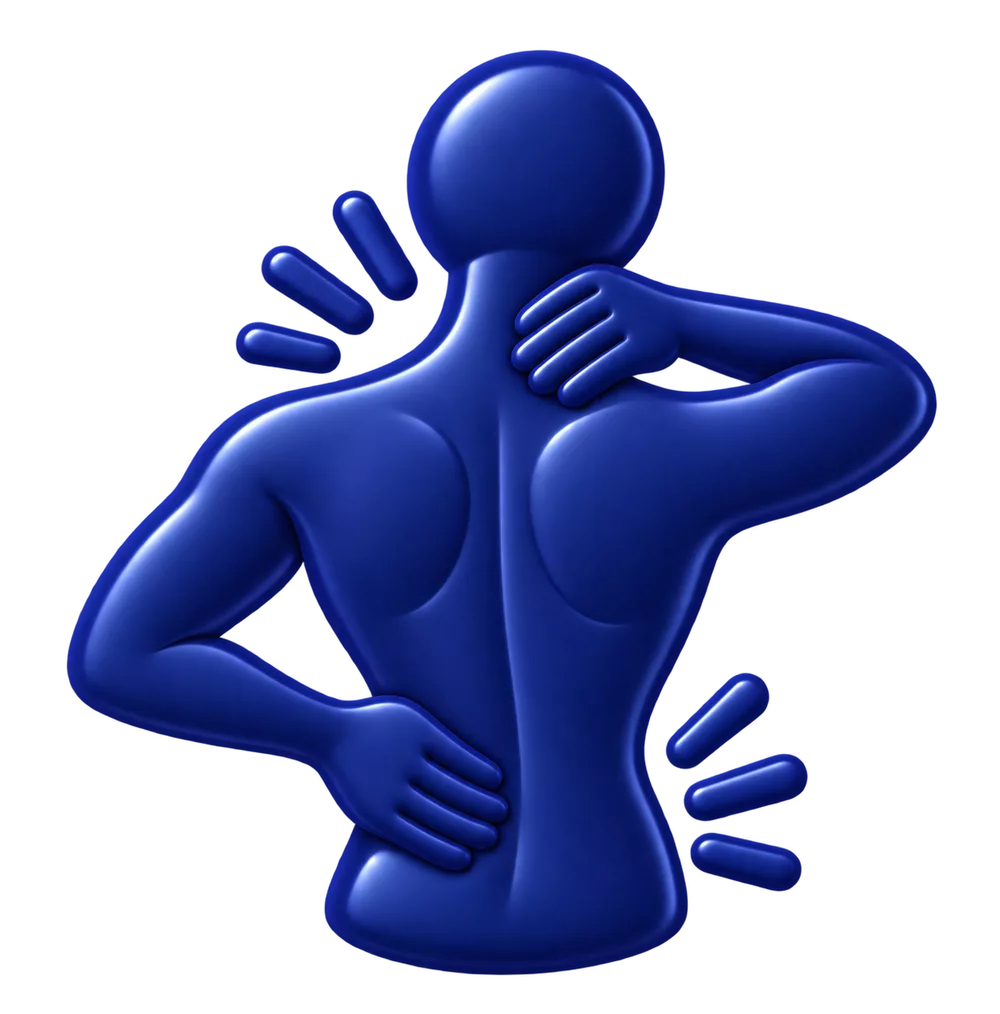
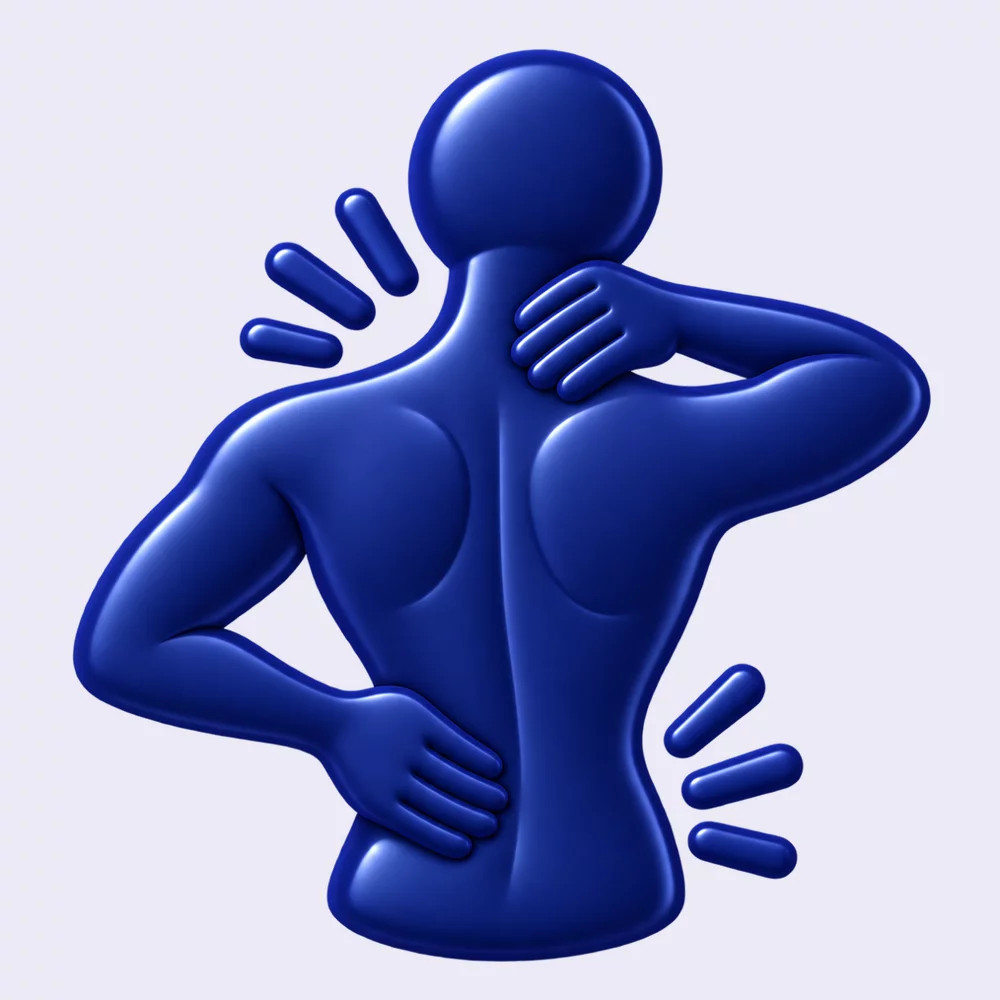
RollPro: ikone kartic brez prosojnosti (na barvi podlage) - ikona Prilagodite sebi se v brskalniku ni izrisala

diff --git a/wp-content/themes/noriks/template_parts/product-bottom/why-rollpro.php b/wp-content/themes/noriks/template_parts/product-bottom/why-rollpro.php
@@ -18,7 +18,7 @@ if ( ! defined( 'ABSPATH' ) ) { exit; }
 ?>
 <div class="wsrollpro">
 <section class="wsrollpro__s wsrollpro__s--bg"><div class="wsrollpro__v"><div class="wsrollpro__kicker wsrollpro__c">Inovativna tehnologija</div><h2 class="wsrollpro__h2 wsrollpro__c">Duboka masaža – <em>kod kuće</em></h2><p class="wsrollpro__p wsrollpro__c">NORIKS RollPro spaja rotirajuće valjke i pulsirajući pokret u jednom uređaju. Pet brzina, dvije ručke i postolje za korištenje bez ruku.</p><div class="wsrollpro__grid wsrollpro__g3"><div class="wsrollpro__k"><div class="wsrollpro__km"><img src="<?php echo esc_url( get_template_directory_uri() . '/img/rollpro/noriks-rollpro-bol.webp' ); ?>" alt="Ublažava bol i napetost" loading="eager" decoding="async"></div><div class="wsrollpro__kt"><strong>Ublažava bol i napetost</strong><p>Riješite se boli i napetosti u mišićima nakon dugog dana za računalom. Valjci se okreću i pulsiraju, pa masaža seže dublje od ručnog valjka.</p></div></div><div class="wsrollpro__k"><div class="wsrollpro__km"><img src="<?php echo esc_url( get_template_directory_uri() . '/img/rollpro/noriks-rollpro-oporavak.webp' ); ?>" alt="Brži oporavak i cirkulacija" loading="eager" decoding="async"></div><div class="wsrollpro__kt"><strong>Brži oporavak i cirkulacija</strong><p>Poboljšava oporavak, ublažava upalu mišića nakon treninga i potiče cirkulaciju krvi te opće zdravlje mišića.</p></div></div><div class="wsrollpro__k"><div class="wsrollpro__km"><img src="<?php echo esc_url( get_template_directory_uri() . '/img/rollpro/noriks-rollpro-opustanje.webp' ); ?>" alt="Opuštanje" loading="eager" decoding="async"></div><div class="wsrollpro__kt"><strong>Opuštanje</strong><p>Uživajte u nježnoj, ali učinkovitoj masaži dok se odmarate – na kauču, na podu ili za stolom.</p></div></div></div><p class="wsrollpro__zak">Masaža kakvu osjetite odmah – bez termina i bez čekanja.</p></div></section>
-<section class="wsrollpro__s"><div class="wsrollpro__v"><div class="wsrollpro__kicker wsrollpro__c">Zašto NORIKS RollPro</div><h2 class="wsrollpro__h2 wsrollpro__c">Napravljen za <em>stvarne rezultate</em></h2><p class="wsrollpro__p wsrollpro__c">Rotirajuća masaža, pulsirajući pokret i više brzina – iskustvo lako prilagodite svom tijelu i potrebama.</p><div class="wsrollpro__vk"><div class="wsrollpro__media wsrollpro__media--vid"><video src="<?php echo esc_url( get_template_directory_uri() . '/img/rollpro/noriks-rollpro-video.mp4' ); ?>" poster="<?php echo esc_url( get_template_directory_uri() . '/img/rollpro/noriks-rollpro-video.jpg' ); ?>" autoplay muted loop playsinline webkit-playsinline preload="metadata"></video></div><div class="wsrollpro__grid wsrollpro__g2"><div class="wsrollpro__k"><div class="wsrollpro__km"><img src="<?php echo esc_url( get_template_directory_uri() . '/img/rollpro/noriks-rollpro-ikona-bol.webp' ); ?>" alt="Ciljano olakšanje" loading="eager" decoding="async"></div><div class="wsrollpro__kt"><strong>Ciljano olakšanje</strong><p>Ublažava upalu mišića i osjećaj napetosti točno tamo gdje treba.</p></div></div><div class="wsrollpro__k"><div class="wsrollpro__km"><img src="<?php echo esc_url( get_template_directory_uri() . '/img/rollpro/noriks-rollpro-ikona-oporavak.webp' ); ?>" alt="Osjetite razliku odmah" loading="eager" decoding="async"></div><div class="wsrollpro__kt"><strong>Osjetite razliku odmah</strong><p>Pojačan protok krvi i opušteno, pokretljivije tijelo već nakon prve masaže.</p></div></div><div class="wsrollpro__k"><div class="wsrollpro__km"><img src="<?php echo esc_url( get_template_directory_uri() . '/img/rollpro/noriks-rollpro-ikona-masaza.webp' ); ?>" alt="Nježan, a učinkovit" loading="eager" decoding="async"></div><div class="wsrollpro__kt"><strong>Nježan, a učinkovit</strong><p>Rotacija i pulsiranje za ugodno i učinkovito iskustvo masaže.</p></div></div><div class="wsrollpro__k"><div class="wsrollpro__km"><img src="<?php echo esc_url( get_template_directory_uri() . '/img/rollpro/noriks-rollpro-ikona-brzina.webp' ); ?>" alt="Prilagodite sebi" loading="eager" decoding="async"></div><div class="wsrollpro__kt"><strong>Prilagodite sebi</strong><p>Više brzina – lako prilagodite masažu svom tijelu i potrebama.</p></div></div></div></div></div></section>
+<section class="wsrollpro__s"><div class="wsrollpro__v"><div class="wsrollpro__kicker wsrollpro__c">Zašto NORIKS RollPro</div><h2 class="wsrollpro__h2 wsrollpro__c">Napravljen za <em>stvarne rezultate</em></h2><p class="wsrollpro__p wsrollpro__c">Rotirajuća masaža, pulsirajući pokret i više brzina – iskustvo lako prilagodite svom tijelu i potrebama.</p><div class="wsrollpro__vk"><div class="wsrollpro__media wsrollpro__media--vid"><video src="<?php echo esc_url( get_template_directory_uri() . '/img/rollpro/noriks-rollpro-video.mp4' ); ?>" poster="<?php echo esc_url( get_template_directory_uri() . '/img/rollpro/noriks-rollpro-video.jpg' ); ?>" autoplay muted loop playsinline webkit-playsinline preload="metadata"></video></div><div class="wsrollpro__grid wsrollpro__g2"><div class="wsrollpro__k"><div class="wsrollpro__km"><img src="<?php echo esc_url( get_template_directory_uri() . '/img/rollpro/noriks-rollpro-ikona-bol.webp' ); ?>" alt="Ciljano olakšanje" loading="eager" decoding="async"></div><div class="wsrollpro__kt"><strong>Ciljano olakšanje</strong><p>Ublažava upalu mišića i osjećaj napetosti točno tamo gdje treba.</p></div></div><div class="wsrollpro__k"><div class="wsrollpro__km"><img src="<?php echo esc_url( get_template_directory_uri() . '/img/rollpro/noriks-rollpro-ikona-oporavak.webp' ); ?>" alt="Osjetite razliku odmah" loading="eager" decoding="async"></div><div class="wsrollpro__kt"><strong>Osjetite razliku odmah</strong><p>Pojačan protok krvi i opušteno, pokretljivije tijelo već nakon prve masaže.</p></div></div><div class="wsrollpro__k"><div class="wsrollpro__km"><img src="<?php echo esc_url( get_template_directory_uri() . '/img/rollpro/noriks-rollpro-ikona-masaza.webp' ); ?>" alt="Nježan, a učinkovit" loading="eager" decoding="async"></div><div class="wsrollpro__kt"><strong>Nježan, a učinkovit</strong><p>Rotacija i pulsiranje za ugodno i učinkovito iskustvo masaže.</p></div></div><div class="wsrollpro__k"><div class="wsrollpro__km"><img src="<?php echo esc_url( get_template_directory_uri() . '/img/rollpro/noriks-rollpro-ikona-podesavanje.webp' ); ?>" alt="Prilagodite sebi" loading="eager" decoding="async"></div><div class="wsrollpro__kt"><strong>Prilagodite sebi</strong><p>Više brzina – lako prilagodite masažu svom tijelu i potrebama.</p></div></div></div></div></div></section>
 <section class="wsrollpro__s wsrollpro__s--bg"><div class="wsrollpro__v wsrollpro__dva wsrollpro__dva--rev"><div class="wsrollpro__media"><img src="<?php echo esc_url( get_template_directory_uri() . '/img/rollpro/noriks-rollpro-stopala.webp' ); ?>" alt="Masaža NORIKS RollPro valjkom na kauču" loading="eager" decoding="async"></div><div><div class="wsrollpro__kicker">Iskrena usporedba</div><h2 class="wsrollpro__h2">Masažni valjak <em>vs masažni pištolj</em></h2><p class="wsrollpro__p">Masažni valjci daju glađe i nježnije iskustvo od mnogih masažnih pištolja, koji često djeluju grubo i agresivno. Veća dodirna površina, manje buke i manje agresivne vibracije.</p><div class="wsrollpro__tw"><table class="wsrollpro__tab"><thead><tr><th><span></span></th><th><span>Masažni valjak</span></th><th><span>Masažni pištolj</span></th></tr></thead><tbody><tr><td>Nježna masaža</td><td class="wsrollpro__da">✓</td><td class="wsrollpro__ne">✕</td></tr><tr><td>Jednostavan za korištenje</td><td class="wsrollpro__da">✓</td><td class="wsrollpro__ne">✕</td></tr><tr><td>Veća dodirna površina</td><td class="wsrollpro__da">✓</td><td class="wsrollpro__ne">✕</td></tr><tr><td>Korištenje bez ruku (postolje)</td><td class="wsrollpro__da">✓</td><td class="wsrollpro__ne">✕</td></tr><tr><td>Tiši rad</td><td class="wsrollpro__da">✓</td><td class="wsrollpro__ne">✕</td></tr><tr><td>Prikladan za duže masaže</td><td class="wsrollpro__da">✓</td><td class="wsrollpro__ne">✕</td></tr></tbody></table></div><p class="wsrollpro__zak">Ugodnije iskustvo – i lakše ga je koristiti sami.</p></div></div></section>
 <section class="wsrollpro__s"><div class="wsrollpro__v wsrollpro__dva"><div class="wsrollpro__media"><img src="<?php echo esc_url( get_template_directory_uri() . '/img/rollpro/noriks-rollpro-bedro.webp' ); ?>" alt="NORIKS RollPro na podu pored kauča" loading="eager" decoding="async"></div><div><div class="wsrollpro__kicker">Jamstvo bez rizika</div><h2 class="wsrollpro__h2">Isprobajte <em>30 dana bez rizika</em></h2><p class="wsrollpro__p">Znamo koliko je važno pronaći opremu koja vam stvarno odgovara. Zato NORIKS RollPro možete isprobati kod kuće koliko god želite.</p><p class="wsrollpro__p">Ako niste potpuno zadovoljni, imate 30 dana za povrat novca – bez kompliciranja i bez pitanja.</p><p class="wsrollpro__p">Plaćate pouzećem kad paket stigne, a dostava je besplatna iznad 70 €.</p><ul class="wsrollpro__kv"><li>30 dana za povrat novca</li><li>plaćanje pouzećem</li><li>besplatna dostava iznad 70 €</li></ul><p class="wsrollpro__zak">Vaše zadovoljstvo je na prvom mjestu.</p></div></div></section>
 <section class="wsrollpro__s wsrollpro__s--bg"><div class="wsrollpro__v"><div class="wsrollpro__kicker wsrollpro__c">Vole ga tisuće</div><h2 class="wsrollpro__h2 wsrollpro__c">Ocjena <em>4,8 od 5</em></h2><p class="wsrollpro__p wsrollpro__c">Iskustva kupaca koji se oporavljaju kod kuće.</p><div class="wsrollpro__grid wsrollpro__g2"><div class="wsrollpro__k"><div class="wsrollpro__kt"><span class="wsrollpro__zv">★★★★★</span><strong>Vrijedi svoje novce</strong><p>„Jako sam zadovoljan proizvodom. Kvaliteta je odlična, i samog uređaja i svega što dolazi uz njega.“</p><span class="wsrollpro__ime"><i class="wsrollpro__av" aria-hidden="true">O</i>Ognjen M. · Potvrđena kupnja</span></div></div><div class="wsrollpro__k"><div class="wsrollpro__kt"><span class="wsrollpro__zv">★★★★★</span><strong>Obožavam svoju opremu</strong><p>„Obožavam ovu opremu, kvaliteta je dobra, a upute za korištenje su jednostavne.“</p><span class="wsrollpro__ime"><i class="wsrollpro__av" aria-hidden="true">E</i>Erik S. · Potvrđena kupnja</span></div></div><div class="wsrollpro__k"><div class="wsrollpro__kt"><span class="wsrollpro__zv">★★★★★</span><strong>Savršen za kuću</strong><p>„Savršen za kuću i za put. Može se koristiti bilo gdje i super je jednostavan za korištenje. Ne zauzima puno mjesta.“</p><span class="wsrollpro__ime"><i class="wsrollpro__av" aria-hidden="true">H</i>Hrvoje B. · Potvrđena kupnja</span></div></div><div class="wsrollpro__k"><div class="wsrollpro__kt"><span class="wsrollpro__zv">★★★★★</span><strong>Nisam mogao pogriješiti</strong><p>„Mislio sam da ne mogu puno pogriješiti, a sad sam super zadovoljan. Osjećaj je kao masaža kod terapeuta.“</p><span class="wsrollpro__ime"><i class="wsrollpro__av" aria-hidden="true">K</i>Kristijan D. · Potvrđena kupnja</span></div></div><div class="wsrollpro__k"><div class="wsrollpro__kt"><span class="wsrollpro__zv">★★★★★</span><strong>Stvarno dobra kupnja</strong><p>„Mogu ga toplo preporučiti. Jako uživam u oporavku kod kuće i impresioniran sam koliko je učinkovit.“</p><span class="wsrollpro__ime"><i class="wsrollpro__av" aria-hidden="true">P</i>Petar N. · Potvrđena kupnja</span></div></div><div class="wsrollpro__k"><div class="wsrollpro__kt"><span class="wsrollpro__zv">★★★★★</span><strong>Odlična komunikacija i usluga</strong><p>„Super komunikacija i usluga kod narudžbe. Sve je stiglo brzo i uredno.“</p><span class="wsrollpro__ime"><i class="wsrollpro__av" aria-hidden="true">P</i>Petar F. · Potvrđena kupnja</span></div></div><div class="wsrollpro__k"><div class="wsrollpro__kt"><span class="wsrollpro__zv">★★★★★</span><strong>Za cijelu obitelj</strong><p>„Stvarno dobar koncept, prikladan za cijelu obitelj svih uzrasta. Savršen i za godišnji odmor!“</p><span class="wsrollpro__ime"><i class="wsrollpro__av" aria-hidden="true">K</i>Krešimir M. · Potvrđena kupnja</span></div></div><div class="wsrollpro__k"><div class="wsrollpro__kt"><span class="wsrollpro__zv">★★★★★</span><strong>Odličan proizvod i dobra usluga</strong><p>„Treba se malo naviknuti, ali upute su dobre i jednostavne. Stvarno ga je lako ponijeti posvuda.“</p><span class="wsrollpro__ime"><i class="wsrollpro__av" aria-hidden="true">N</i>Nikola P. · Potvrđena kupnja</span></div></div><div class="wsrollpro__k"><div class="wsrollpro__kt"><span class="wsrollpro__zv">★★★★★</span><strong>Ozbiljna oprema</strong><p>„Zaboravite loša i neozbiljna pomagala iz TV prodaje. Ovdje dobivate kvalitetan uređaj koji stvarno radi.“</p><span class="wsrollpro__ime"><i class="wsrollpro__av" aria-hidden="true">M</i>Marko F. · Potvrđena kupnja</span></div></div><div class="wsrollpro__k"><div class="wsrollpro__kt"><span class="wsrollpro__zv">★★★★★</span><strong>Divan proizvod</strong><p>„Divan uređaj, sve je stiglo munjevito brzo. Vrlo zadovoljna kupnjom.“</p><span class="wsrollpro__ime"><i class="wsrollpro__av" aria-hidden="true">S</i>Sara M. · Potvrđena kupnja</span></div></div></div><p class="wsrollpro__zak">Deset različitih priča – isti osjećaj olakšanja.</p></div></section>
